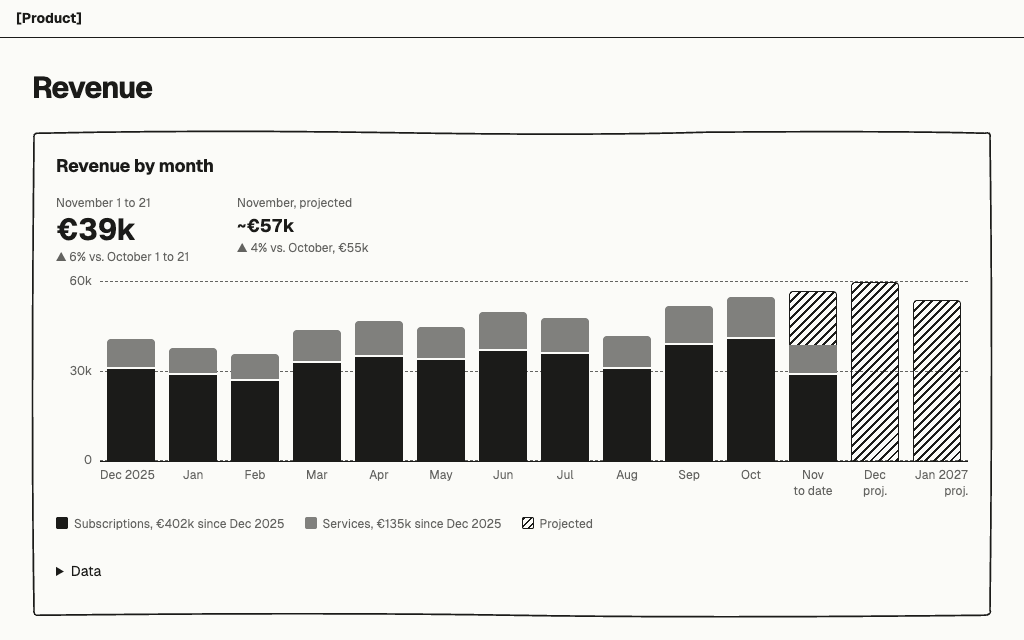
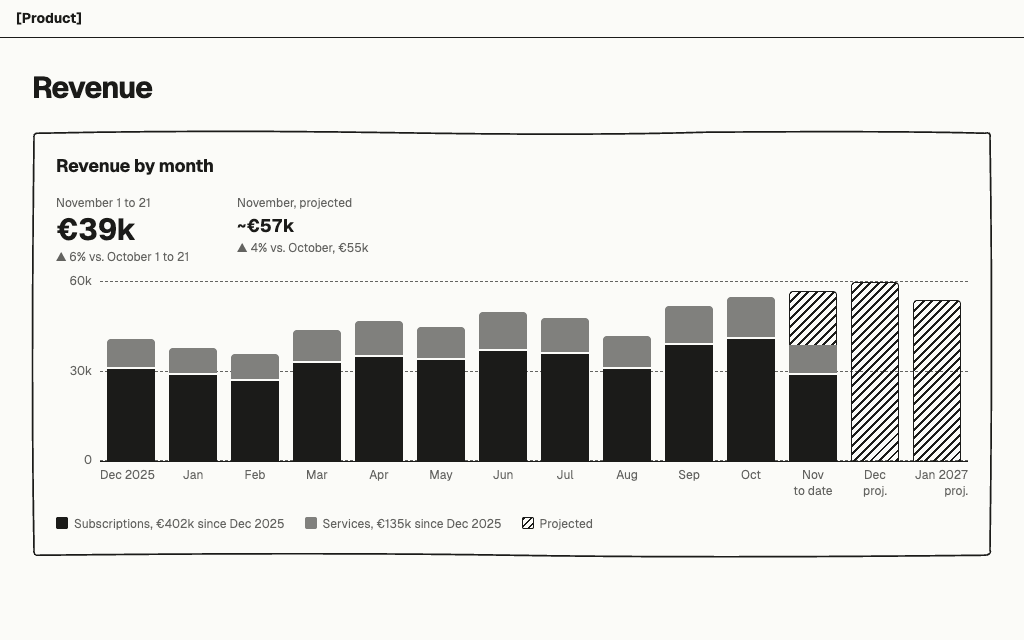
Show the chart data tables to screen readers only

diff --git a/templates/chart/monthly-bars.html b/templates/chart/monthly-bars.html
@@ -56,29 +56,27 @@
     <ul class="sketch-key">
       <li><i></i>Subscriptions, €402k since Dec 2025</li><li><i class="second"></i>Services, €135k since Dec 2025</li><li><i class="projected"></i>Projected</li>
     </ul>
-    <details>
-    <summary>Data</summary>
-    <div class="sketch-table-box"><table class="sketch-table sketch-data">
-      <thead><tr><th>Month</th><th>Subscriptions</th><th>Services</th><th>Total</th></tr></thead>
-      <tbody>
-          <tr><td>Dec 2025</td><td>€31k</td><td>€10k</td><td>€41k</td></tr>
-          <tr><td>Jan 2026</td><td>€29k</td><td>€9k</td><td>€38k</td></tr>
-          <tr><td>Feb 2026</td><td>€27k</td><td>€9k</td><td>€36k</td></tr>
-          <tr><td>Mar 2026</td><td>€33k</td><td>€11k</td><td>€44k</td></tr>
-          <tr><td>Apr 2026</td><td>€35k</td><td>€12k</td><td>€47k</td></tr>
-          <tr><td>May 2026</td><td>€34k</td><td>€11k</td><td>€45k</td></tr>
-          <tr><td>Jun 2026</td><td>€37k</td><td>€13k</td><td>€50k</td></tr>
-          <tr><td>Jul 2026</td><td>€36k</td><td>€12k</td><td>€48k</td></tr>
-          <tr><td>Aug 2026</td><td>€31k</td><td>€11k</td><td>€42k</td></tr>
-          <tr><td>Sep 2026</td><td>€39k</td><td>€13k</td><td>€52k</td></tr>
-          <tr><td>Oct 2026</td><td>€41k</td><td>€14k</td><td>€55k</td></tr>
-          <tr><td>Nov 2026 to date</td><td>€29k</td><td>€10k</td><td>€39k</td></tr>
-          <tr><td>Nov 2026 proj.</td><td>–</td><td>–</td><td>€57k</td></tr>
-          <tr><td>Dec 2026 proj.</td><td>–</td><td>–</td><td>€60k</td></tr>
-          <tr><td>Jan 2027 proj.</td><td>–</td><td>–</td><td>€54k</td></tr>
-      </tbody>
-    </table></div>
-  </details>
+    <table class="sketch-data">
+    <caption>Data</caption>
+    <thead><tr><th>Month</th><th>Subscriptions</th><th>Services</th><th>Total</th></tr></thead>
+    <tbody>
+      <tr><td>Dec 2025</td><td>€31k</td><td>€10k</td><td>€41k</td></tr>
+      <tr><td>Jan 2026</td><td>€29k</td><td>€9k</td><td>€38k</td></tr>
+      <tr><td>Feb 2026</td><td>€27k</td><td>€9k</td><td>€36k</td></tr>
+      <tr><td>Mar 2026</td><td>€33k</td><td>€11k</td><td>€44k</td></tr>
+      <tr><td>Apr 2026</td><td>€35k</td><td>€12k</td><td>€47k</td></tr>
+      <tr><td>May 2026</td><td>€34k</td><td>€11k</td><td>€45k</td></tr>
+      <tr><td>Jun 2026</td><td>€37k</td><td>€13k</td><td>€50k</td></tr>
+      <tr><td>Jul 2026</td><td>€36k</td><td>€12k</td><td>€48k</td></tr>
+      <tr><td>Aug 2026</td><td>€31k</td><td>€11k</td><td>€42k</td></tr>
+      <tr><td>Sep 2026</td><td>€39k</td><td>€13k</td><td>€52k</td></tr>
+      <tr><td>Oct 2026</td><td>€41k</td><td>€14k</td><td>€55k</td></tr>
+      <tr><td>Nov 2026 to date</td><td>€29k</td><td>€10k</td><td>€39k</td></tr>
+      <tr><td>Nov 2026 proj.</td><td>–</td><td>–</td><td>€57k</td></tr>
+      <tr><td>Dec 2026 proj.</td><td>–</td><td>–</td><td>€60k</td></tr>
+      <tr><td>Jan 2027 proj.</td><td>–</td><td>–</td><td>€54k</td></tr>
+    </tbody>
+  </table>
   </section>
 </main>
 <script src="../../assets/sketch.js"></script>

diff --git a/templates/chart/bars-with-line.html b/templates/chart/bars-with-line.html
@@ -57,29 +57,27 @@
     <ul class="sketch-key" aria-hidden="true">
       <li><i></i>At or above plan</li><li><i class="second"></i>Below plan</li><li><i class="projected"></i>Projected</li><li><i class="plan"></i>Plan</li>
     </ul>
-    <details>
-    <summary>Data</summary>
-    <div class="sketch-table-box"><table class="sketch-table sketch-data">
-      <thead><tr><th>Month</th><th>Revenue</th><th>Plan</th><th>vs. plan</th></tr></thead>
-      <tbody>
-          <tr><td>Dec 2025</td><td>€41k</td><td>€40k</td><td>+1k</td></tr>
-          <tr><td>Jan 2026</td><td>€38k</td><td>€40k</td><td>−2k</td></tr>
-          <tr><td>Feb 2026</td><td>€36k</td><td>€40k</td><td>−4k</td></tr>
-          <tr><td>Mar 2026</td><td>€44k</td><td>€42k</td><td>+2k</td></tr>
-          <tr><td>Apr 2026</td><td>€47k</td><td>€44k</td><td>+3k</td></tr>
-          <tr><td>May 2026</td><td>€45k</td><td>€46k</td><td>−1k</td></tr>
-          <tr><td>Jun 2026</td><td>€50k</td><td>€48k</td><td>+2k</td></tr>
-          <tr><td>Jul 2026</td><td>€48k</td><td>€48k</td><td>+0k</td></tr>
-          <tr><td>Aug 2026</td><td>€42k</td><td>€46k</td><td>−4k</td></tr>
-          <tr><td>Sep 2026</td><td>€52k</td><td>€50k</td><td>+2k</td></tr>
-          <tr><td>Oct 2026</td><td>€55k</td><td>€52k</td><td>+3k</td></tr>
-          <tr><td>Nov 2026 to date</td><td>€39k</td><td>€54k</td><td>–</td></tr>
-          <tr><td>Nov 2026 proj.</td><td>€57k</td><td>€54k</td><td>+3k</td></tr>
-          <tr><td>Dec 2026 proj.</td><td>€60k</td><td>€58k</td><td>+2k</td></tr>
-          <tr><td>Jan 2027 proj.</td><td>€54k</td><td>€50k</td><td>+4k</td></tr>
-      </tbody>
-    </table></div>
-  </details>
+    <table class="sketch-data">
+    <caption>Data</caption>
+    <thead><tr><th>Month</th><th>Revenue</th><th>Plan</th><th>vs. plan</th></tr></thead>
+    <tbody>
+      <tr><td>Dec 2025</td><td>€41k</td><td>€40k</td><td>+1k</td></tr>
+      <tr><td>Jan 2026</td><td>€38k</td><td>€40k</td><td>−2k</td></tr>
+      <tr><td>Feb 2026</td><td>€36k</td><td>€40k</td><td>−4k</td></tr>
+      <tr><td>Mar 2026</td><td>€44k</td><td>€42k</td><td>+2k</td></tr>
+      <tr><td>Apr 2026</td><td>€47k</td><td>€44k</td><td>+3k</td></tr>
+      <tr><td>May 2026</td><td>€45k</td><td>€46k</td><td>−1k</td></tr>
+      <tr><td>Jun 2026</td><td>€50k</td><td>€48k</td><td>+2k</td></tr>
+      <tr><td>Jul 2026</td><td>€48k</td><td>€48k</td><td>+0k</td></tr>
+      <tr><td>Aug 2026</td><td>€42k</td><td>€46k</td><td>−4k</td></tr>
+      <tr><td>Sep 2026</td><td>€52k</td><td>€50k</td><td>+2k</td></tr>
+      <tr><td>Oct 2026</td><td>€55k</td><td>€52k</td><td>+3k</td></tr>
+      <tr><td>Nov 2026 to date</td><td>€39k</td><td>€54k</td><td>–</td></tr>
+      <tr><td>Nov 2026 proj.</td><td>€57k</td><td>€54k</td><td>+3k</td></tr>
+      <tr><td>Dec 2026 proj.</td><td>€60k</td><td>€58k</td><td>+2k</td></tr>
+      <tr><td>Jan 2027 proj.</td><td>€54k</td><td>€50k</td><td>+4k</td></tr>
+    </tbody>
+  </table>
   </section>
 </main>
 <script src="../../assets/sketch.js"></script>

diff --git a/templates/chart/line-over-time.html b/templates/chart/line-over-time.html
@@ -58,28 +58,26 @@
     <ul class="sketch-key" aria-hidden="true">
       <li><i class="line"></i>Actual</li><li><i class="line projected"></i>Projected</li>
     </ul>
-    <details>
-    <summary>Data</summary>
-    <div class="sketch-table-box"><table class="sketch-table sketch-data">
-      <thead><tr><th>Month</th><th>State</th><th>Balance</th></tr></thead>
-      <tbody>
-          <tr><td>Dec 2025</td><td>Actual, month end</td><td>€120k</td></tr>
-          <tr><td>Jan 2026</td><td>Actual, month end</td><td>€112k</td></tr>
-          <tr><td>Feb 2026</td><td>Actual, month end</td><td>€104k</td></tr>
-          <tr><td>Mar 2026</td><td>Actual, month end</td><td>€110k</td></tr>
-          <tr><td>Apr 2026</td><td>Actual, month end</td><td>€118k</td></tr>
-          <tr><td>May 2026</td><td>Actual, month end</td><td>€121k</td></tr>
-          <tr><td>Jun 2026</td><td>Actual, month end</td><td>€130k</td></tr>
-          <tr><td>Jul 2026</td><td>Actual, month end</td><td>€126k</td></tr>
-          <tr><td>Aug 2026</td><td>Actual, month end</td><td>€119k</td></tr>
-          <tr><td>Sep 2026</td><td>Actual, month end</td><td>€128k</td></tr>
-          <tr><td>Oct 2026</td><td>Actual, month end</td><td>€136k</td></tr>
-          <tr><td>Nov 2026</td><td>Actual, today 21 November</td><td>€131k</td></tr>
-          <tr><td>Dec 2026</td><td>Projected</td><td>€142k</td></tr>
-          <tr><td>Jan 2027</td><td>Projected</td><td>€150k</td></tr>
-      </tbody>
-    </table></div>
-  </details>
+    <table class="sketch-data">
+    <caption>Data</caption>
+    <thead><tr><th>Month</th><th>State</th><th>Balance</th></tr></thead>
+    <tbody>
+      <tr><td>Dec 2025</td><td>Actual, month end</td><td>€120k</td></tr>
+      <tr><td>Jan 2026</td><td>Actual, month end</td><td>€112k</td></tr>
+      <tr><td>Feb 2026</td><td>Actual, month end</td><td>€104k</td></tr>
+      <tr><td>Mar 2026</td><td>Actual, month end</td><td>€110k</td></tr>
+      <tr><td>Apr 2026</td><td>Actual, month end</td><td>€118k</td></tr>
+      <tr><td>May 2026</td><td>Actual, month end</td><td>€121k</td></tr>
+      <tr><td>Jun 2026</td><td>Actual, month end</td><td>€130k</td></tr>
+      <tr><td>Jul 2026</td><td>Actual, month end</td><td>€126k</td></tr>
+      <tr><td>Aug 2026</td><td>Actual, month end</td><td>€119k</td></tr>
+      <tr><td>Sep 2026</td><td>Actual, month end</td><td>€128k</td></tr>
+      <tr><td>Oct 2026</td><td>Actual, month end</td><td>€136k</td></tr>
+      <tr><td>Nov 2026</td><td>Actual, today 21 November</td><td>€131k</td></tr>
+      <tr><td>Dec 2026</td><td>Projected</td><td>€142k</td></tr>
+      <tr><td>Jan 2027</td><td>Projected</td><td>€150k</td></tr>
+    </tbody>
+  </table>
   </section>
 </main>
 <script src="../../assets/sketch.js"></script>

diff --git a/templates/chart/stat-trend.html b/templates/chart/stat-trend.html
@@ -90,22 +90,20 @@
       </ul>
     </div>
   </section>
-  <details>
-    <summary>Data</summary>
-    <div class="sketch-table-box"><table class="sketch-table sketch-data">
-      <thead><tr><th>Month</th><th>Revenue</th><th>Costs</th><th>Margin</th><th>Cash</th></tr></thead>
-      <tbody>
-          <tr><td>May</td><td>€45k</td><td>€36k</td><td>€9k</td><td>€121k</td></tr>
-          <tr><td>Jun</td><td>€50k</td><td>€38k</td><td>€12k</td><td>€130k</td></tr>
-          <tr><td>Jul</td><td>€48k</td><td>€37k</td><td>€11k</td><td>€126k</td></tr>
-          <tr><td>Aug</td><td>€42k</td><td>€36k</td><td>€6k</td><td>€119k</td></tr>
-          <tr><td>Sep</td><td>€52k</td><td>€39k</td><td>€13k</td><td>€128k</td></tr>
-          <tr><td>Oct</td><td>€55k</td><td>€39k</td><td>€16k</td><td>€136k</td></tr>
-          <tr><td>Nov to date</td><td>€39k</td><td>€27k</td><td>€12k</td><td>€131k</td></tr>
-          <tr><td>Nov projected</td><td>€57k</td><td>€40k</td><td>€17k</td><td>€134k</td></tr>
-          <tr><td>Dec projected</td><td>€60k</td><td>€41k</td><td>€19k</td><td>€142k</td></tr>
-      </tbody>
-    </table></div>
-  </details>
+  <table class="sketch-data">
+    <caption>Data</caption>
+    <thead><tr><th>Month</th><th>Revenue</th><th>Costs</th><th>Margin</th><th>Cash</th></tr></thead>
+    <tbody>
+      <tr><td>May</td><td>€45k</td><td>€36k</td><td>€9k</td><td>€121k</td></tr>
+      <tr><td>Jun</td><td>€50k</td><td>€38k</td><td>€12k</td><td>€130k</td></tr>
+      <tr><td>Jul</td><td>€48k</td><td>€37k</td><td>€11k</td><td>€126k</td></tr>
+      <tr><td>Aug</td><td>€42k</td><td>€36k</td><td>€6k</td><td>€119k</td></tr>
+      <tr><td>Sep</td><td>€52k</td><td>€39k</td><td>€13k</td><td>€128k</td></tr>
+      <tr><td>Oct</td><td>€55k</td><td>€39k</td><td>€16k</td><td>€136k</td></tr>
+      <tr><td>Nov to date</td><td>€39k</td><td>€27k</td><td>€12k</td><td>€131k</td></tr>
+      <tr><td>Nov projected</td><td>€57k</td><td>€40k</td><td>€17k</td><td>€134k</td></tr>
+      <tr><td>Dec projected</td><td>€60k</td><td>€41k</td><td>€19k</td><td>€142k</td></tr>
+    </tbody>
+  </table>
 </main>
 <script src="../../assets/sketch.js"></script>

diff --git a/assets/sketch.css b/assets/sketch.css
@@ -403,6 +403,8 @@ html[data-theme="dark"] [data-sketch], html[data-theme="dark"][data-sketch] {
 /* A meter: a drawn track with an <i> that gets its value as a width. Give the box role="meter" and the aria-value attributes. */
 [data-sketch] .sketch-meter { height: 12px; border: var(--sketch-stroke) solid var(--sketch-ink); border-radius: 7px 5px 6px 4px; overflow: hidden; }
 [data-sketch] .sketch-meter i { display: block; height: 100%; background: var(--sketch-ink); }
+/* A chart's data table is for screen readers only. The chart's aria-label and key give the values to a sighted reader. */
+[data-sketch] .sketch-data { position: absolute; width: 1px; height: 1px; margin: -1px; padding: 0; border: 0; overflow: hidden; clip-path: inset(50%); white-space: nowrap; }
 /* A menu button shows or hides the element right after it, below 1000 px. */
 [data-sketch] .sketch-collapse { display: grid; flex-basis: 100%; }
 @media (max-width: 599px) {
@@ -410,9 +412,6 @@ html[data-theme="dark"] [data-sketch], html[data-theme="dark"][data-sketch] {
   [data-sketch] .sketch-table tr { display: flex; flex-wrap: wrap; align-items: center; gap: 0 12px; padding: 12px 0; border-bottom: var(--sketch-stroke) solid var(--sketch-wash); }
   [data-sketch] .sketch-table td { padding: 0; border: 0; }
   [data-sketch] .sketch-plot:not(.line) > div:last-child > b { position: absolute; top: -20px; right: 0; margin: 0; } /* A narrow last bar puts its value above the plot, clear of a taller bar before it. */
-  [data-sketch] .sketch-data thead { display: table-header-group !important; } /* A data table keeps its headers and rows, so each value keeps its period and its series. */
-  [data-sketch] .sketch-data tr { display: table-row; padding: 0; }
-  [data-sketch] .sketch-data :is(th, td) { padding: 6px 8px; }
   [data-sketch] :is(.sketch-plot > .minor > b, .sketch-periods > .minor, .sketch-periods small) { visibility: hidden; }
   [data-sketch] .sketch-periods small { display: none; }
 }

diff --git a/references/charts/bars-with-line.md b/references/charts/bars-with-line.md
@@ -21,11 +21,11 @@ The plan of each month is a dashed tick across its period, with the plan value a
 
 ## Many periods
 
-Up to 24 months fit at 390 px. The bars get narrower. From 600 px, each month has a label and a plan value. The plan value sits above the tick or above the bar, whichever is higher. Below 600 px, only the first month and the current month keep a label, and the plan values hide, because a value is wider than its period. Three grid lines give the scale, the summary gives the plan of the current month, and the data table gives each value. For more than 24 months, group the months into quarters.
+Up to 24 months fit at 390 px. The bars get narrower. From 600 px, each month has a label and a plan value. The plan value sits above the tick or above the bar, whichever is higher. Below 600 px, only the first month and the current month keep a label, and the plan values hide, because a value is wider than its period. Three grid lines give the scale, the summary gives the plan of the current month, and the data table gives each value to screen readers. For more than 24 months, group the months into quarters.
 
 ## Above and below plan
 
-A complete month at or above its plan is solid. A complete month below its plan is in the thinned ink of `below`. The tone is not the only sign: the top of the bar is above or below its tick. The key names both, and the data table gives the difference from plan of each month.
+A complete month at or above its plan is solid. A complete month below its plan is in the thinned ink of `below`. The tone is not the only sign: the top of the bar is above or below its tick. The key names both, and the data table gives screen readers the difference from plan of each month.
 
 ## Current and projected periods
 

diff --git a/references/charts/stat-trend.md b/references/charts/stat-trend.md
@@ -23,4 +23,4 @@ Each tile is a tab in a `sketch-tiles` row: 2 tiles in a row below 600 px, and 4
 
 The tile value is the value to date of the current month. The change compares it with the earlier month at the same day, such as "vs. Oct 1 to 21". A level, such as a cash balance, compares with the end of the earlier month. In the tile trend, the complete months are solid with a wash below, and the projected months are dashed.
 
-The chosen tile has a drawn frame and shows its panel. For a total, the panel has a `sketch-goal` meter: the value to date is solid, and the rest to the projected total is hatched. The daily chart shows the total so far, solid to today and dashed to the projected end of the month. A thin line shows the earlier month for comparison. For a level, the daily chart shows the level with no meter. Each daily chart gives every value in its `aria-label`. One `details` table below the panel gives every monthly value of every tile.
+The chosen tile has a drawn frame and shows its panel. For a total, the panel has a `sketch-goal` meter: the value to date is solid, and the rest to the projected total is hatched. The daily chart shows the total so far, solid to today and dashed to the projected end of the month. A thin line shows the earlier month for comparison. For a level, the daily chart shows the level with no meter. Each daily chart gives every value in its `aria-label`. One `sketch-data` table below the panel gives screen readers every monthly value of every tile.

diff --git a/references/charts.md b/references/charts.md
@@ -23,7 +23,7 @@ Use this page to choose a chart template and to draw a chart in a sketch. The pr
 - Never use a second value axis. If two series have different units, draw two charts.
 - Never scroll inside a chart. Each rule page says how many periods fit and what to do with more.
 - Name each mark in words in a `sketch-key`. Never use a hue.
-- Give the chart `role="img"` and an `aria-label` with a summary and the values. Put the data in a `details` table below the chart, with the class `sketch-data`. A sparkline in a table row gives every value in its `aria-label` in place of a table.
+- Give the chart `role="img"` and an `aria-label` with a summary and the values. Put the data in a table with the class `sketch-data` below the chart. The kit shows it to screen readers only, so the page has no visible data control. A sparkline in a table row gives every value in its `aria-label` in place of a table.
 - Put the main numbers above the chart in a `sketch-summary`, such as "November 1 to 21: €39k" and "November, projected: ~€57k". Give each value its change against the same days of the earlier period.
 - Split a bar into at most 2 parts. Draw the lower part solid and the upper part in the thinned ink of `second`. A projected bar is not split, because the split of a projection is not known.
 - Draw a reference level, such as a minimum cash level, as a `sketch-ref` line with its name and value on the line.

diff --git a/references/charts/monthly-bars.md b/references/charts/monthly-bars.md
@@ -25,4 +25,4 @@ Up to 24 months fit at 390 px. The bars get narrower, and each bar is at most 48
 
 ## Current and projected periods
 
-The summary above the chart gives the value to date, such as "November 1 to 21: €39k", and the projected total, such as "November, projected: ~€57k". Each value has its change against the same days of the earlier month. The current month is one bar: its 2 parts to date are solid, and its projected rest is hatched on top. Its label is "Nov to date". Each projected month is one hatched bar, not split. The key gives the total of each part since the first month, largest first. The data table gives each part and each total.
+The summary above the chart gives the value to date, such as "November 1 to 21: €39k", and the projected total, such as "November, projected: ~€57k". Each value has its change against the same days of the earlier month. The current month is one bar: its 2 parts to date are solid, and its projected rest is hatched on top. Its label is "Nov to date". Each projected month is one hatched bar, not split. The key gives the total of each part since the first month, largest first. The data table gives screen readers each part and each total.
